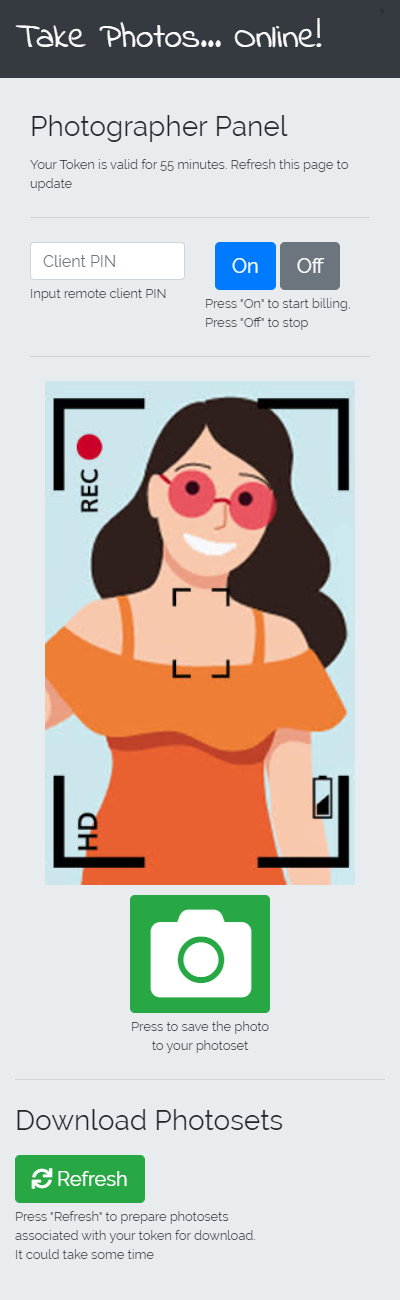
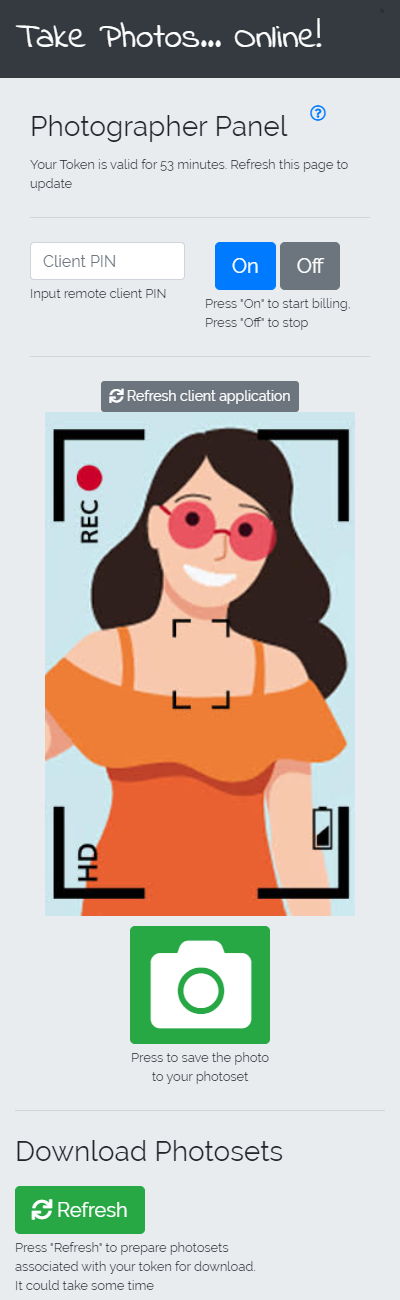
add more info; update scrsh

diff --git a/readme_ru.html b/readme_ru.html
@@ -295,10 +295,11 @@
                     </li>
                     <li class="list-group-item">Если изображение видео потока замерло дольше чем на 5 секунд, то кадры
                         могут не сохраняться. Во избежание такой ситуации переподключитесь к клиенту
-                        нажав "Off", затем "On"
+                        нажав <b>"Off"</b>, затем <b>"On"</b>
                     </li>
                     <li class="list-group-item">Если вы выполнили переподключение несколько раз и все равно не видите
-                        изображение попросите клиента обновить страницу
+                        изображение нажмите на кнопку <b>"Refresh client application"</b>. Приложение у клиента перезагрузится
+                        и ему нужно будет подтвердить доступ к камере еще раз.
                     </li>
                     <li class="list-group-item">Рекомендуется снять несколько пробных кадров и сделать их выгрузку для
                         проверки соединения в начале съемки
